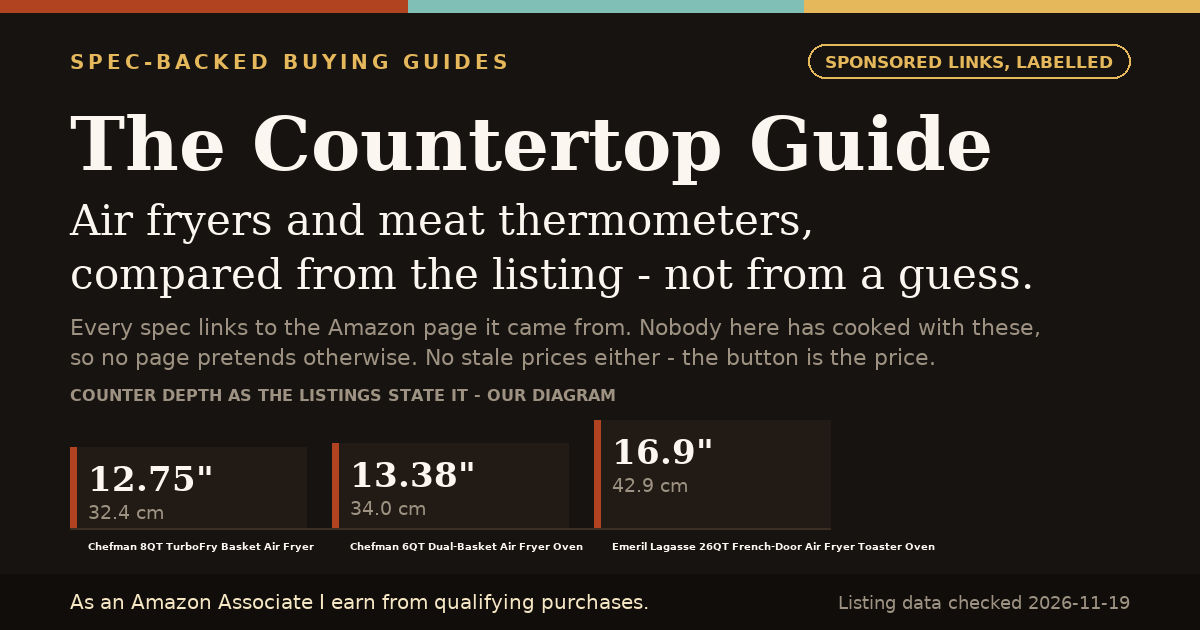
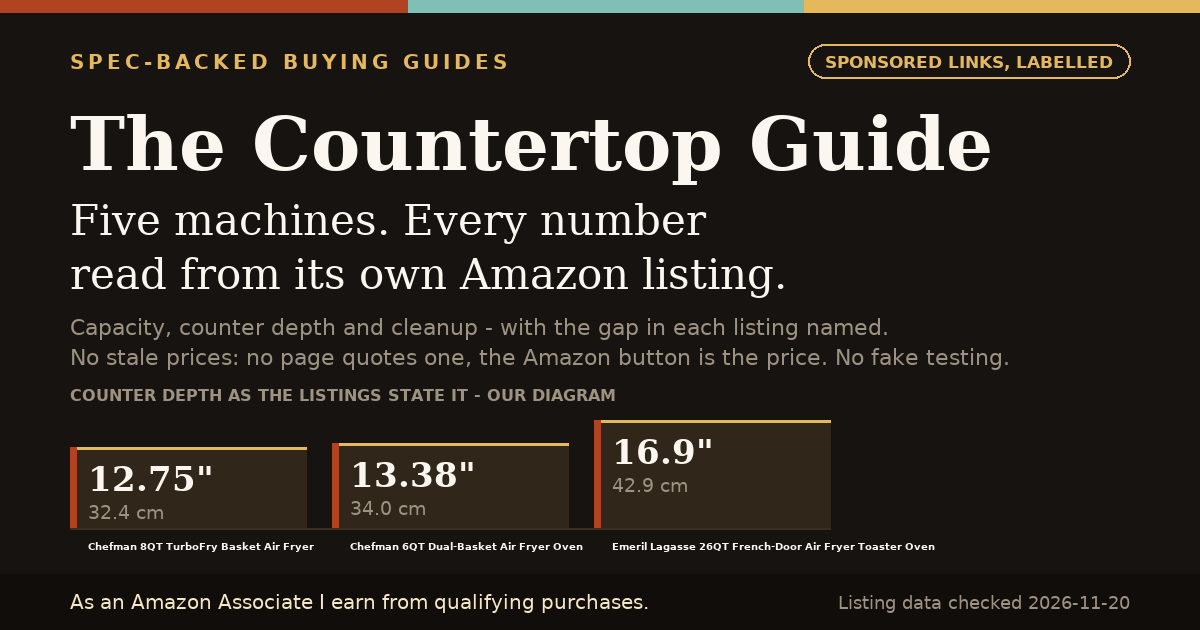
Share card: lead with the promise and the listing data, not the audit
Rewrite the og-image subtitle to the shop line, name the gap in each
listing, and raise the depth-bar contrast so the comparison is legible at
thumbnail size. Executive summary now counts five gates (not four) and links
the decision worksheet.

diff --git a/executive-summary.html b/executive-summary.html
@@ -62,7 +62,7 @@
 <div class="grid cols-3">
   <article class="card"><span class="chip">Live</span><h3>1 publication, 30 pages</h3><p>Front page, two category hubs, a five-product comparison with a three-question chooser, 13 question-shaped guides, a topic calendar, and the review desk. One sitemap, one feed, one canonical host.</p></article>
   <article class="card"><span class="chip">Verified</span><h3>5 listings, dated</h3><p>Titles, dimensions, capacity, features and bullets read from Amazon.com on 2026-11-20, each linked. Submitted short links resolve to the five ASINs. Anything unconfirmed is blank and flagged, never inferred.</p></article>
-  <article class="card"><span class="chip">Waiting on you</span><h3>6 owner decisions</h3><p>Special Link test, search console, canonical domain, photography licence, analytics host, byline. None blocks publishing; each blocks a claim or a scale step. <a href="suggestions.html#SG-01">See the decision queue</a>.</p></article>
+  <article class="card"><span class="chip">Waiting on you</span><h3>6 owner decisions</h3><p>Special Link test, search console, canonical domain, photography licence, analytics host, byline. None blocks publishing; each blocks a claim or a scale step. <a href="suggestions.html#SG-01">See the decision queue</a>, or open the <a href="https://github.com/wingbangboozle1-lang/Prod1/blob/main/review/3c99f15c/DECISION_WORKSHEET.md">decision worksheet</a> &mdash; eighteen decisions grouped by what they unlock, each with the missing fact and the one action that produces it.</p></article>
 </div>
 
 <h2>The five products</h2>
@@ -80,7 +80,7 @@
 <ul>
 <li><strong>Product facts</strong> come from each product&rsquo;s own listing, read on 2026-11-20, with the URL recorded per field in the <a href="verification.html">verification register</a>. Where a listing contradicts itself, both values are published and flagged rather than silently resolved (<a href="flagged.html#FLG-002">FLG-002</a>, <a href="flagged.html#FLG-021">FLG-021</a>, <a href="flagged.html#FLG-022">FLG-022</a>).</li>
 <li><strong>Policy text</strong> was read from the official pages and quoted, not summarised from memory: Operating Agreement &sect;5 (disclosure), Program Policies (price and availability, ratings), Google Search Central (outbound link qualification), FTC (disclosure placement). Sources are listed on <a href="compliance.html">the compliance page</a> with the read date.</li>
-<li><strong>Mechanical checks</strong> run before every publish: the build is deterministic, four gates check disclosure placement, sponsored marking, internal links, metadata, voice rules, price policy and that every CSS class has a style, and the build itself refuses to write a comparative sentence (the narrowest, the deepest, the biggest) that data/products.json no longer supports. See the <a href="verification.html#claim-audit">claim audit</a>. A page that fails cannot merge.</li>
+<li><strong>Mechanical checks</strong> run before every publish: the build is deterministic, and <strong>five</strong> gates plus the independent audit build run in the deploy workflow &mdash; <code>check_site.mjs</code> (disclosure placement, sponsored marking, internal links, titles, claim wording), <code>check_meta.mjs</code> (metadata, voice rules, price policy), <code>check_style.mjs</code> (every emitted CSS class has a rule and every <code>var()</code> a value), <code>verify_structure.mjs</code> (assets, heading outline, unclosed tags) and <code>check_measure.mjs</code> (the five-event contract, including the endpoint&rsquo;s own self-test). The build itself refuses to write a comparative sentence (the narrowest, the deepest, the biggest) that <code>data/products.json</code> no longer supports. See the <a href="verification.html#claim-audit">claim audit</a>.</li>
 </ul>
 
 <h2>What is not claimed, and why</h2>

diff --git a/build_site.py b/build_site.py
@@ -991,7 +991,7 @@ exec_body = f"""
 <div class="grid cols-3">
   <article class="card"><span class="chip">Live</span><h3>1 publication, @@PAGES@@ pages</h3><p>Front page, two category hubs, a five-product comparison with a three-question chooser, @@GUIDES@@ question-shaped guides, a topic calendar, and the review desk. One sitemap, one feed, one canonical host.</p></article>
   <article class="card"><span class="chip">Verified</span><h3>5 listings, dated</h3><p>Titles, dimensions, capacity, features and bullets read from Amazon.com on {VERIFIED}, each linked. Submitted short links resolve to the five ASINs. Anything unconfirmed is blank and flagged, never inferred.</p></article>
-  <article class="card"><span class="chip">Waiting on you</span><h3>6 owner decisions</h3><p>Special Link test, search console, canonical domain, photography licence, analytics host, byline. None blocks publishing; each blocks a claim or a scale step. <a href="suggestions.html#SG-01">See the decision queue</a>.</p></article>
+  <article class="card"><span class="chip">Waiting on you</span><h3>6 owner decisions</h3><p>Special Link test, search console, canonical domain, photography licence, analytics host, byline. None blocks publishing; each blocks a claim or a scale step. <a href="suggestions.html#SG-01">See the decision queue</a>, or open the <a href="https://github.com/wingbangboozle1-lang/Prod1/blob/main/review/3c99f15c/DECISION_WORKSHEET.md">decision worksheet</a> &mdash; eighteen decisions grouped by what they unlock, each with the missing fact and the one action that produces it.</p></article>
 </div>
 
 <h2>The five products</h2>
@@ -1009,7 +1009,7 @@ exec_body = f"""
 <ul>
 <li><strong>Product facts</strong> come from each product&rsquo;s own listing, read on {VERIFIED}, with the URL recorded per field in the <a href="verification.html">verification register</a>. Where a listing contradicts itself, both values are published and flagged rather than silently resolved (<a href="flagged.html#FLG-002">FLG-002</a>, <a href="flagged.html#FLG-021">FLG-021</a>, <a href="flagged.html#FLG-022">FLG-022</a>).</li>
 <li><strong>Policy text</strong> was read from the official pages and quoted, not summarised from memory: Operating Agreement &sect;5 (disclosure), Program Policies (price and availability, ratings), Google Search Central (outbound link qualification), FTC (disclosure placement). Sources are listed on <a href="compliance.html">the compliance page</a> with the read date.</li>
-<li><strong>Mechanical checks</strong> run before every publish: the build is deterministic, four gates check disclosure placement, sponsored marking, internal links, metadata, voice rules, price policy and that every CSS class has a style, and the build itself refuses to write a comparative sentence (the narrowest, the deepest, the biggest) that data/products.json no longer supports. See the <a href="verification.html#claim-audit">claim audit</a>. A page that fails cannot merge.</li>
+<li><strong>Mechanical checks</strong> run before every publish: the build is deterministic, and <strong>five</strong> gates plus the independent audit build run in the deploy workflow &mdash; <code>check_site.mjs</code> (disclosure placement, sponsored marking, internal links, titles, claim wording), <code>check_meta.mjs</code> (metadata, voice rules, price policy), <code>check_style.mjs</code> (every emitted CSS class has a rule and every <code>var()</code> a value), <code>verify_structure.mjs</code> (assets, heading outline, unclosed tags) and <code>check_measure.mjs</code> (the five-event contract, including the endpoint&rsquo;s own self-test). The build itself refuses to write a comparative sentence (the narrowest, the deepest, the biggest) that <code>data/products.json</code> no longer supports. See the <a href="verification.html#claim-audit">claim audit</a>.</li>
 </ul>
 
 <h2>What is not claimed, and why</h2>

diff --git a/scripts/make_og.py b/scripts/make_og.py
@@ -66,14 +66,16 @@ def main():
     # An earlier version hard-coded a y for the diagram label that overlapped the
     # subtitle; this version cannot overlap because it measures instead of guessing.
     y = 196
-    for line in ["Air fryers and meat thermometers,", "compared from the listing - not from a guess."]:
+    for line in ["Five machines. Every number", "read from its own Amazon listing."]:
         s, wdt = fit(d, line, "serifr", 42, RIGHT - M)
         d.text((M, y), line, font=font("serifr", s), fill=PAPER)
         y += s + 12
-    s, _ = fit(d, "Every spec links to the Amazon page it came from. Nobody here has cooked with these,", "sans", 22, RIGHT - M)
+    L1 = "Capacity, counter depth and cleanup - with the gap in each listing named."
+    L2 = "No stale prices: no page quotes one, the Amazon button is the price. No fake testing."
+    s, _ = fit(d, L1, "sans", 22, RIGHT - M)
     sub = font("sans", s)
-    d.text((M, y + 10), "Every spec links to the Amazon page it came from. Nobody here has cooked with these,", font=sub, fill=MUTED)
-    d.text((M, y + 10 + s + 8), "so no page pretends otherwise. No stale prices either - the button is the price.", font=sub, fill=MUTED)
+    d.text((M, y + 10), L1, font=sub, fill=MUTED)
+    d.text((M, y + 10 + s + 8), L2, font=sub, fill=MUTED)
     sub_bottom = y + 10 + s + 8 + s
 
     # our own diagram, from the dimensions the listings state
@@ -95,7 +97,8 @@ def main():
     x = M
     for name, depth in bars:
         hgt = int(depth * scale)
-        d.rectangle([x, y0 - hgt, x + bw, y0], fill="#221B15")
+        d.rectangle([x, y0 - hgt, x + bw, y0], fill="#302619")
+        d.rectangle([x, y0 - hgt, x + bw, y0 - hgt + 2], fill=GOLD)
         d.rectangle([x, y0 - hgt, x + 6, y0], fill=CLAY)
         d.text((x + 18, y0 - hgt + 12), f'{depth}"', font=font("serif", 34), fill=PAPER)
         d.text((x + 18, y0 - hgt + 54), f"{round(depth * 2.54, 1)} cm", font=font("sans", 19), fill=MUTED)
